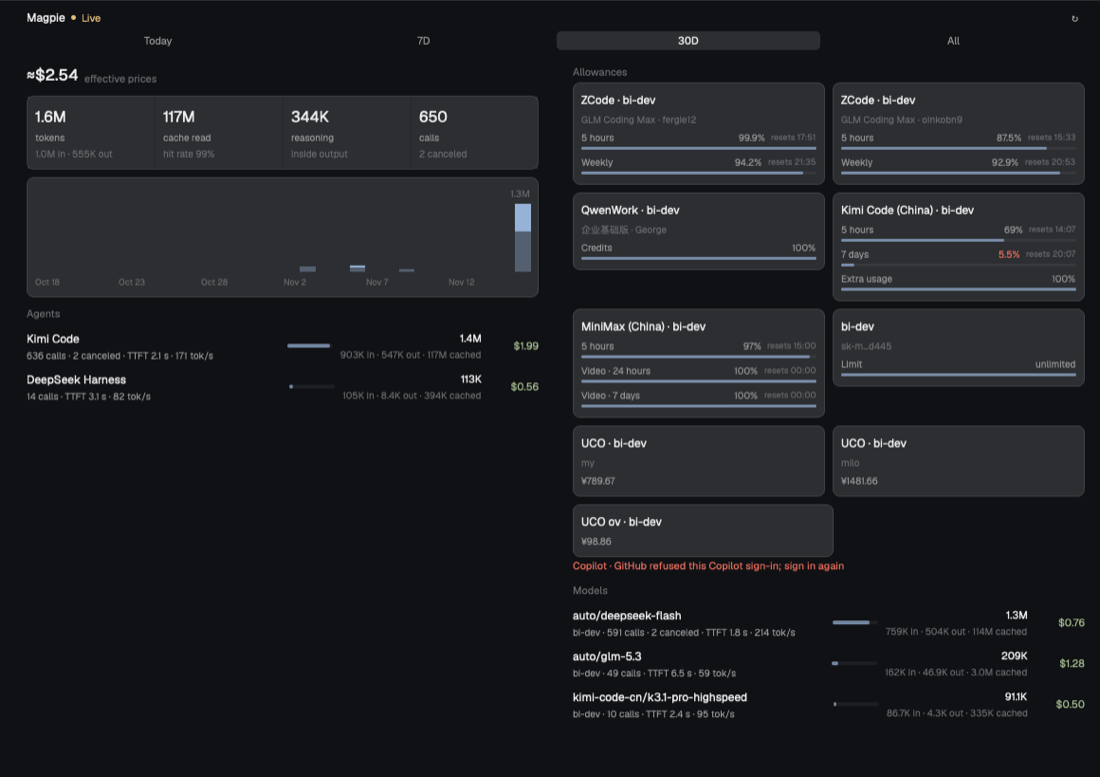
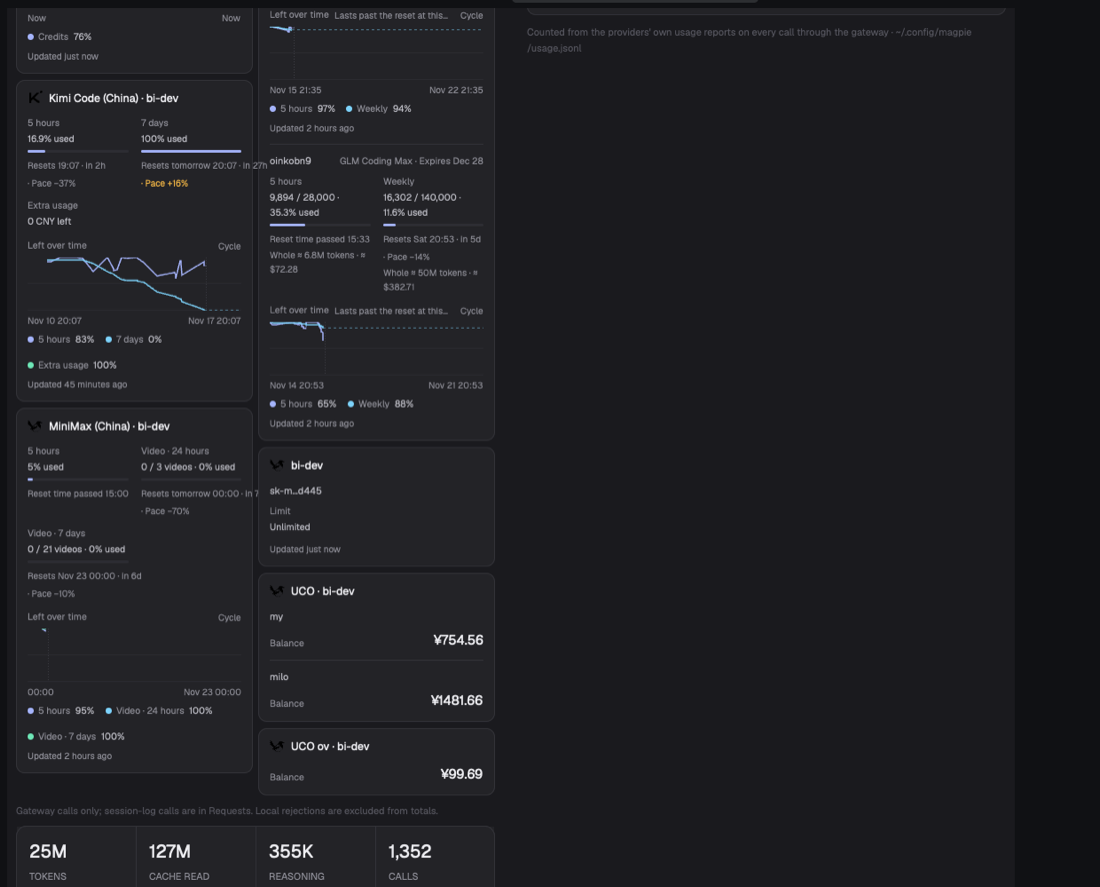
docs(recipe): the page-parity panel
Describe the palette, the grouped allowance cards, the curves and their remote history source, the Used/Left switch, the masonry packing, and what stays out of scope.

diff --git a/RECIPE.md b/RECIPE.md
@@ -1,10 +1,11 @@
 # Magpie stats
 
-A Herdr panel that copies magpie's Usage overview: spend, four headline
-tiles, a token chart, every agent and model that routed traffic, the
-accounts and gateway keys behind them, and the remaining quota or balance of
-each allowance. It opens from the window's + menu as a tab, or docks in a
-sidebar, and it adapts its layout to the width it is given.
+A Herdr panel that copies magpie's Usage page: the allowance cards with their
+windows, pace and trend curves, the spend, four headline tiles, a token chart,
+and every agent, model, account and gateway key that routed traffic. It opens
+from the window's + menu as a tab, or docks in a sidebar, and it adapts its
+layout to the width it is given. The content uses the page's own light and
+dark palette; the header and period row keep Herdr's theme.
 
 ![Magpie stats](preview.png)
 
@@ -29,28 +30,45 @@ The header and period row span the content.
   has the raised background. 30D is the default.
 - Cost line. `≈$2.54` in semibold, beside `effective prices`, or
   `N calls unpriced` when some calls had no known price.
-- Allowances. In medium and wide, one card per account, two cards per row.
-  A card shows the account name, its plan and user, one line per window
-  (name, remaining percentage, reset time, a 3 px bar), and the balance string
-  when it has one. Narrow keeps compact rows: the accounts closest to their
-  limit first, then a `Balance` line and any refused account. `Allowances ·
-  stale` means the last answer could not be refreshed.
+- Allowances. Cards packed into columns the way the page packs them: each
+  card goes into the shortest column, two columns at medium and wide, one in
+  narrow. A provider's several accounts share one card with an `All N
+  accounts` aggregate block and a section per account. A card head carries
+  the provider icon, the name, and the plan with its renewal or expiry. Each
+  window shows its name, `count / limit · N% used` (or left, by the Used/Left
+  switch in the head), a 3 px bar, `Resets HH:MM · in Nh · Pace ±N%`, and
+  `Whole ≈ N tokens · ≈ $C` from the window's holds. A balance account shows
+  `Balance` and the amount, with an amber `As of …` when the reading stands
+  in for a failed one. A refused account keeps its error line.
+- Trend curves. Under an account's windows, `Left over time` plots each
+  window's left percentage over its current cycle, with a dashed projection
+  to the reset, a dashed now line, the cycle's start and end under the plot,
+  a legend dot per window with its last left percentage, and `Updated …`.
+  The head says `Runs out … at this pace` or `Lasts past the reset at this
+  pace`. Accounts with no history draw no curve.
 - Tiles. Four of them: tokens (input plus output, with `in · out` under),
   cache read (with `hit rate N%`), reasoning (`inside output`), and calls
-  (with failed, retried, canceled and unpriced counts). Narrow stacks them two
-  by two. Medium and wide keep one row.
+  (with failed, retried, canceled and unpriced counts). Uppercase labels,
+  20 px values, white cells with 1 px gaps in a rounded bordered strip.
+  Narrow stacks them two by two. Medium and wide keep one row.
 - Chart. One bar per hour, day, or week, with input stacked dim under output.
   The height follows the tier: 32 px, 56 px, or 72 px. A peak label sits at
   the right, about six date labels under the bars, and a hover gives the
   bucket's tokens, calls, and cost. An empty period shows "No calls in this
   period".
-- Agents. One row per agent, all of them. The left side is the name and a
-  wrapped sub-line: provider, calls, failed, looped, retried, canceled, mean
-  first token (TTFT), decode speed, and any calls magpie made by itself. A
-  4 px bar shows its share of the period's tokens. The right side is the token
-  count with `in · out · cached` under it, and the cost.
+- Agents. One row per agent, all of them, in a white card. A 16 px icon, the
+  name, and a wrapped sub-line: provider, calls, credits, failed, looped,
+  retried, canceled, mean first token (TTFT), decode speed, timed replies,
+  and any calls magpie made by itself. A 4 px bar shows its share of the
+  period's tokens. The right side is the token count with
+  `in · out · cached · hit rate N%` under it, and the green cost, `≈$0.807`
+  style, with a `+` when some calls had no price. A model with nothing priced
+  shows no cost.
 - Models, Accounts, Gateway keys. The same row shape, in that order. Accounts
-  and Gateway keys appear only when the gateway reports any.
+  and Gateway keys appear only when the gateway reports any. Each list head
+  is uppercase with a chevron that folds the list away; the fold is remembered.
+- Footer. `Counted from the providers' own usage reports on every call through
+  the gateway · <path>`.
 - Narrow rows stack. Name and cost come first, then the sub-line, then the
   share bar and the token count.
 - Rail. In a sidebar narrower than 160 px the panel is the selected gateway's
@@ -62,10 +80,22 @@ The header and period row span the content.
 - Live. The selected period refreshes every 30 seconds, and on first show.
   Each gateway keeps its own states and its own selected period. A failure on
   one gateway never touches another's numbers.
-- Allowances. Fetched with the same cycle from `/v1/magpie/quotas`. Quota is
-  not period-scoped, so switching periods leaves it alone. A failure after a
+- Allowances. Fetched with the same cycle from `/v1/magpie/quotas`, with the
+  provider icons from `/v1/magpie/quotas/cards` and the curves from
+  `/v1/magpie/quotas/history?days=45`. A gateway answers its own accounts'
+  history only, so the panel also reads each remote magpie named in
+  `~/.config/magpie/providers.json` (`preset: "remote-magpie"`, not off) with
+  that provider's key, and prefixes its entries with the provider id, the way
+  magpie's own page merges them. A missing cards or history endpoint leaves
+  the panel without icons or curves, never in an error state. Quota is not
+  period-scoped, so switching periods leaves it alone. A failure after a
   success keeps the last cards and marks the title stale. A first failure
   shows `Quota unavailable`. Usage stays visible either way.
+- Used/Left. The switch in the Allowances head flips every window's figure
+  and bar between used and left. The choice is remembered in localStorage.
+- Pace. `used − 100·(now−start)/(reset−start)`, the start taken from the
+  window's newest history point. Over an even pace reads amber `+N%`, under
+  reads `−N%`. Without a start and a reset there is no pace.
 - Key gateways. A key instance sends `Authorization: Bearer <key>` only to
   its own origin. A 401 or 403 reads `the gateway refused the key`. The key is
   masked in the form and never drawn.
@@ -85,9 +115,10 @@ The header and period row span the content.
 
 ## Built from
 
-- `mods/magpie-stats/main.js`, one file, no assets. `mod.json` is
-  `{"place": "none"}`, so it never docks by itself. Open it from the + menu as
-  a tab, or place a block by hand:
+- `mods/magpie-stats/main.js` plus five provider icons (`kimi.svg`,
+  `deepseek-color.svg`, `magpie.svg`, `githubcopilot.svg`, `zcode.png`).
+  `mod.json` is `{"place": "none"}`, so it never docks by itself. Open it from
+  the + menu as a tab, or place a block by hand:
   `{"id": "magpie", "type": "block", "size": {"px": 240}, "min": 60, "content": {"mod": "magpie-stats"}}`.
 - The + menu needs two clones of shipped mods. The + button in `tabs`
   hardcodes `openOverlay({ mod: "new-menu" })`, and shipped mods are rewritten
@@ -99,25 +130,31 @@ The header and period row span the content.
   - The shown layout's tabs block names `magpie-tabs`.
 - herdr functions used: `home()`, `appHome()`, `readTextFile()`,
   `writeTextFile()` (compare-and-swap), `theme()`, `InputState`/`Input` from
-  gpui-base, and the built-in `fetch` with a `headers` option. No app
-  commands, no `exec`, no programs.
+  gpui-base, the built-in `fetch` with a `headers` option, and gpui-kit's
+  `PathBuilder` with `window.paint_path` for the curves. No app commands, no
+  `exec`, no programs.
 - Watch list: `<appHome>/magpie-stats-instances.json`, one of two shapes per
   entry: `{"id":"i-…","name":"…","kind":"file","addressFile":"…"}` or
   `{"id":"i-…","name":"…","kind":"key","url":"http://host:port","key":"…"}`.
   A missing `kind` reads as `file`. The list is written only through a
   compare-and-swap read-merge-write with a bounded retry, so several copies
   share one list safely. The built-in Magpie gateway is derived, never stored.
-- Data source per gateway: `GET {origin}/v1/magpie/usage?period=today|7d|30d|all`
-  and `GET {origin}/v1/magpie/quotas`. A file instance reads its address file
-  on every request and accepts loopback hosts only. A key instance uses its
-  stored origin and sends `Authorization: Bearer <key>`. The usage answer is
-  the one magpie's Usage page reads. Its Overview is
-  `internal/gui/assets/plugins/usage/` in magpie's source.
+- Data source per gateway: `GET {origin}/v1/magpie/usage?period=today|7d|30d|all`,
+  `GET {origin}/v1/magpie/quotas`, `GET {origin}/v1/magpie/quotas/cards`, and
+  `GET {origin}/v1/magpie/quotas/history?days=45`, plus each remote magpie's
+  history with its own key. A file instance reads its address file on every
+  request and accepts loopback hosts only. A key instance uses its stored
+  origin and sends `Authorization: Bearer <key>`. The page's own code is
+  `internal/gui/assets/plugins/usage/` and `app.js` in magpie's source.
 - Structure: one `UsagePageSnapshot` per period with totals, chart points, and
   four row lists. One `parseUsageRow` validates all four lists. One
   `tierOf(width)` decides the layout tier. A quota state of four kinds sits
   beside each gateway's period map, owned by the runtime captured before each
-  fetch.
+  fetch. Allowance cards are measured with `on_size_change` and packed into
+  the shortest column, as the page's `packUsage` does.
+- Palette: `pagePalette()` picks the page's light or dark pair by the
+  luminance of Herdr's background color. The content area uses it; the header
+  and period row keep Herdr's tokens.
 - Width constants: `RAIL_WIDTH` 160, `NARROW_WIDTH` 420, `MEDIUM_WIDTH` 760,
   `COLUMN_WIDTH` 560, `COLUMN_GAP` 16. Change these to retune the layout.
 
@@ -125,8 +162,13 @@ The header and period row span the content.
 
 - Scope. This copies the Usage page's Overview. The Requests, Sessions and
   Context tabs are separate views and are not copied. Row actions (hide an
-  agent, set a model price, clear usage) and the allowance trend curves are
-  not copied either. The quotas payload carries no history.
+  agent, set a model price, clear usage), the Cards/Table switch, Hide
+  accounts, the Trends range menu, and Warm up are not copied. The panel is
+  read-only apart from the Used/Left switch and the list folds.
+- Curves need history. A gateway's history endpoint answers its own accounts
+  only; a remote account's curve comes from that remote magpie, read with the
+  key in `providers.json`. An account with no readings draws no curve, and a
+  window with no recorded start draws no pace.
 - Tokens count input plus output, as the page does by default. Cache read and
   written sit in the tooltips and row sub-values, not in the token totals.
 - File gateways stay loopback only. A key gateway may point at any http or
